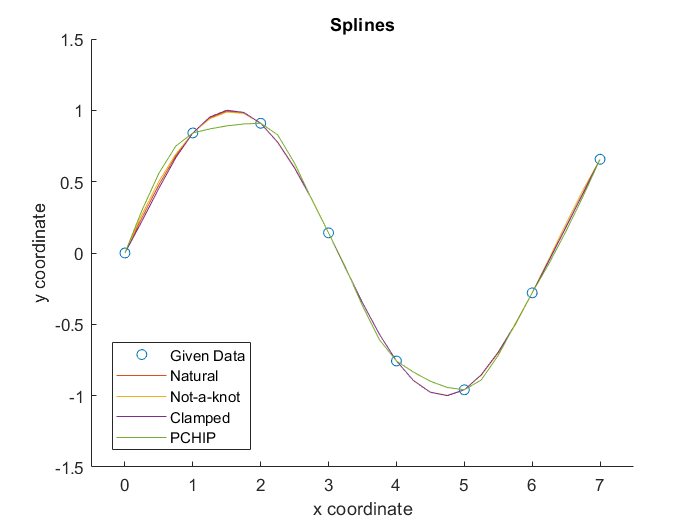
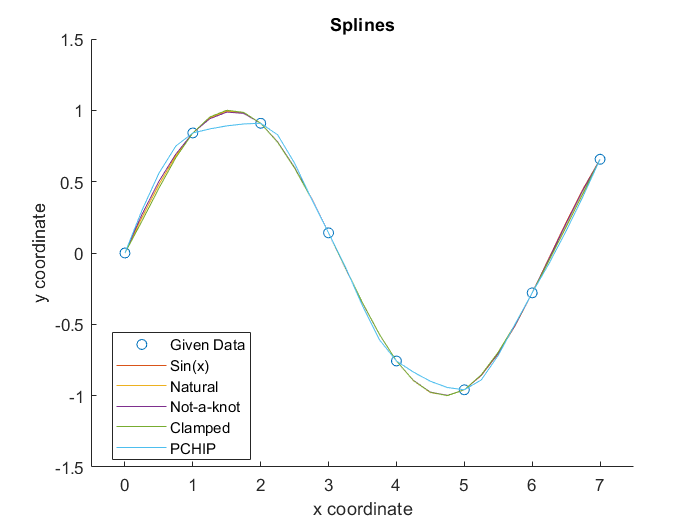
Misc: Update 'HW7_Q1_extra.m'

diff --git a/HW7/HW7_Q1_extra.m b/HW7/HW7_Q1_extra.m
@@ -52,6 +52,8 @@ vq1 = pchip(X, Y, xx);
 hold on;
 % Plot data points
 plot(X, Y, 'o');
+% Plot the real function
+plot(xx, sin(xx));
 % Plot the estimated line
 plot(x_tmp_0, y_tmp_0);
 plot(x_tmp_1, y_tmp_1);
@@ -65,6 +67,7 @@ ylim([-1.5 1.5])
 xlabel('x coordinate')
 ylabel('y coordinate')
 legend('Given Data',...
+       'Sin(x)',...
        'Natural',...
        'Not-a-knot',...
        'Clamped',...
